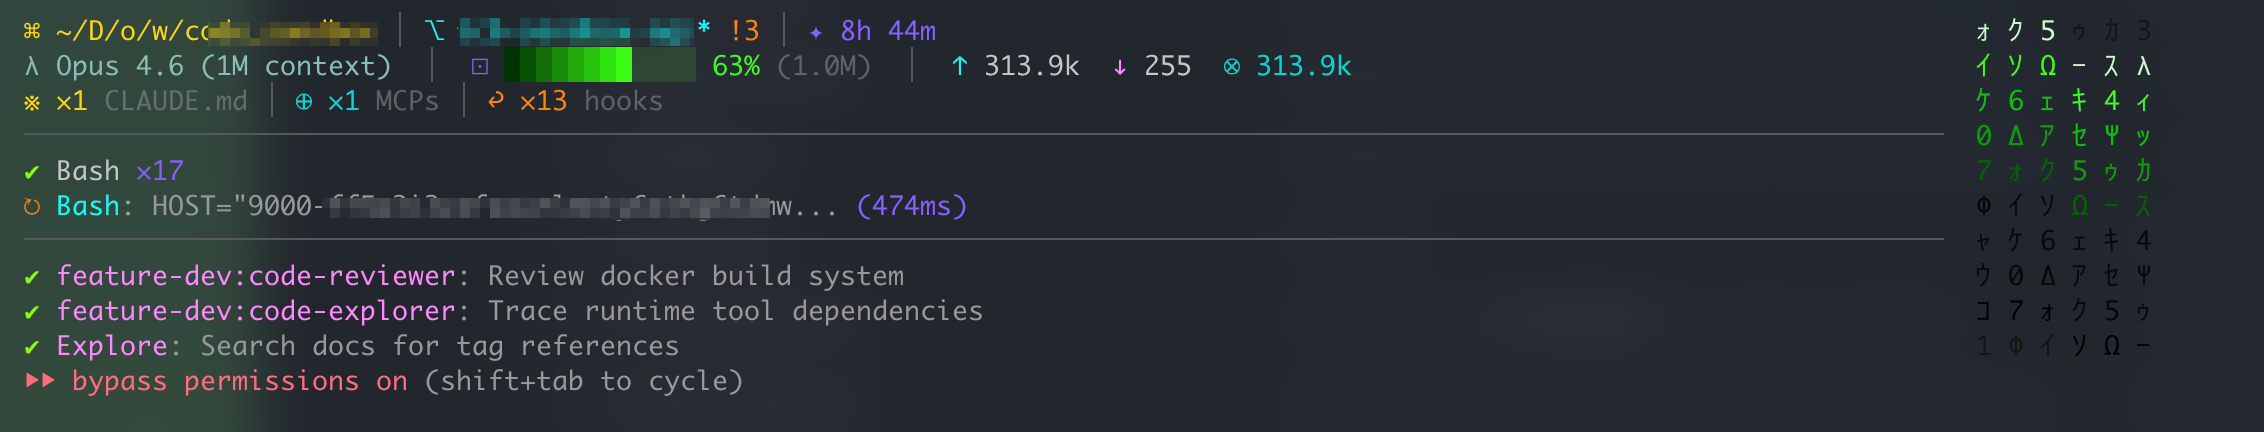
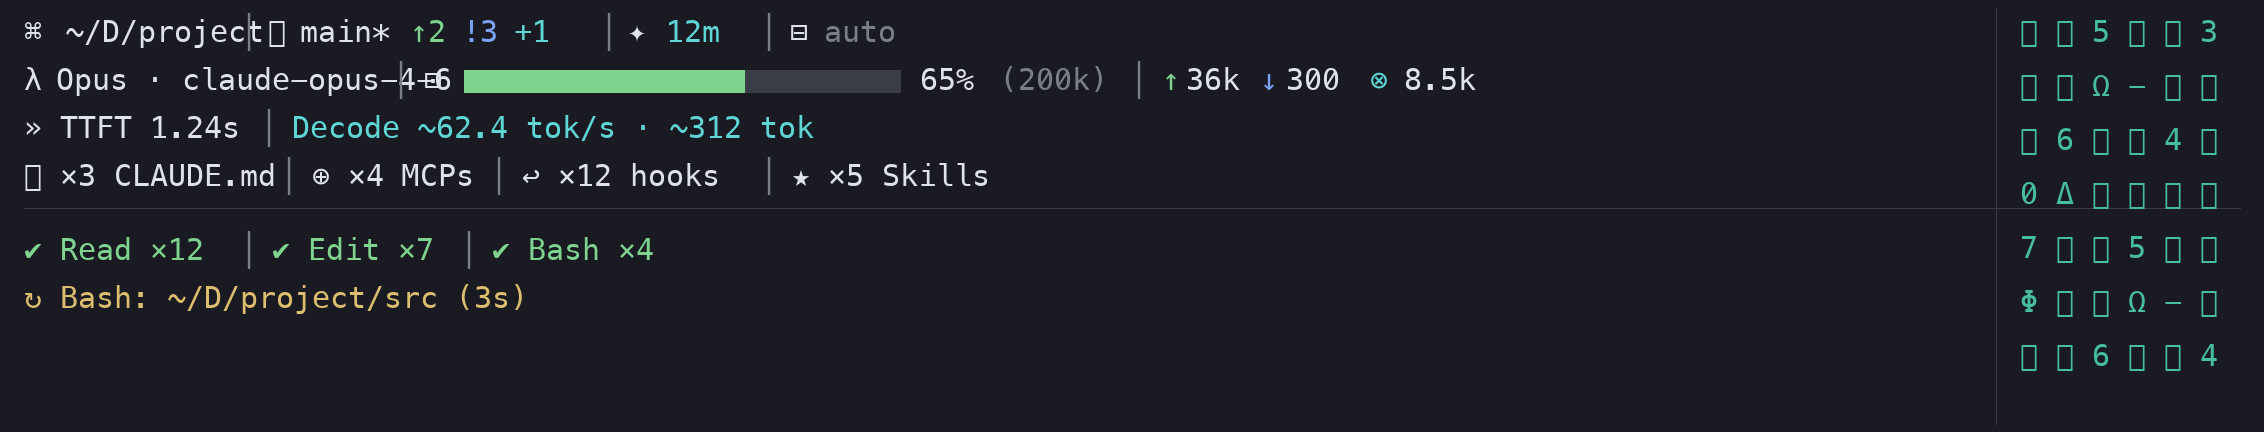
docs: bilingual README, synthetic HUD shot, drop private sync scripts and path fixtures

diff --git a/plugins/cc-shannon-mod/tests/cc-shannon-mod.test.ts b/plugins/cc-shannon-mod/tests/cc-shannon-mod.test.ts
@@ -709,7 +709,7 @@ test("a turn refreshes the git row", async ($, on) => {
 
 test("the project row shortens the path the way the statusline does", async ($, on) => {
   const saved = new Map<string, unknown>();
-  stubBase(on, saved, { cwd: () => "/home/test/Documents/workbuddy/cc-plugins" });
+  stubBase(on, saved, { cwd: () => "/home/test/Documents/projects/cc-plugins" });
   mock.clock(on);
 
   await $.session.start({ surface: "terminal", isInteractive: true, cwd: "/work" });
@@ -717,7 +717,7 @@ test("the project row shortens the path the way the statusline does", async ($, 
 
   const project = JSON.stringify(await ui.find({ key: "row-project" }));
   // `~` for home, then one initial per leading segment; the tail segment stays.
-  expect(project).toContain("~/D/w/cc-plugins");
+  expect(project).toContain("~/D/p/cc-plugins");
   expect(project).not.toContain("/home/test/Documents");
   await ui.unmount();
 });

diff --git a/plugins/cc-shannon-mod/hooks/path.js b/plugins/cc-shannon-mod/hooks/path.js
@@ -1,7 +1,7 @@
 /**
  * Display-path shortening, shared in spirit with cc-shannon-statusline.
  *
- * The statusline writes `~/D/workbuddy/cc-plugins` from a full path: every
+ * The statusline writes `~/D/projects/cc-plugins` from a full path: every
  * leading segment collapses to its first character, and a `-` or `.` keeps the
  * character after it (`RetiredPhysicist` -> `R`, `cc-plugins` -> `c-p`). The mod
  * shows the same string so the two HUDs read alike.

diff --git a/README.md b/README.md
@@ -1,14 +1,36 @@
 # cc-plugins
 
-RetiredPhysicist plugins for [Claude Code](https://claude.ai/code), distributed as
-a plugin marketplace.
+[Claude Code](https://claude.ai/code) plugins from [RetiredPhysicist](https://github.com/RetiredPhysicist), installed from one marketplace.
 
-| plugin | what it does |
-| --- | --- |
-| [`cc-shannon-statusline`](./plugins/cc-shannon-statusline) | A live HUD under the prompt: project, model, context, throughput, tools, agents, and config counts |
-| [`cc-shannon-mod`](./plugins/cc-shannon-mod) | Mission control: measured turn timing, live activity, slowest-tool latency, a context runway, a prompt queue, a risky-command guard, a usage ledger, and a companion fed by green builds |
-| [`cc-shannon-bloom`](./plugins/cc-shannon-bloom) | A Gource-style film of the session: projects as constellations, subagents branching, tool calls flying as sparks |
-| [`cc-atuin`](./plugins/cc-atuin) | Atuin history for Claude Code: prompts and bash commands land in your shell's database, and `/history` searches it |
+[![CI](https://github.com/RetiredPhysicist/cc-plugins/actions/workflows/ci.yml/badge.svg)](https://github.com/RetiredPhysicist/cc-plugins/actions/workflows/ci.yml)
+[![license](https://img.shields.io/badge/license-MIT-blue)](#license)
+
+[中文](./README.zh.md)
+
+Four plugins. Two are mods that run inside the session. One is a status-line command Claude Code calls as a subprocess. One writes prompts and Bash into the local [Atuin](https://atuin.sh) database.
+
+| Plugin | Kind | What you see |
+| --- | --- | --- |
+| [`cc-shannon-statusline`](./plugins/cc-shannon-statusline) | `statusLine` command | A HUD under the prompt: project, git, model, context, transcript timing, tools, agents, config counts |
+| [`cc-shannon-mod`](./plugins/cc-shannon-mod) | mod | The same HUD, plus measured turn timing, a risky-command guard, a usage ledger, a prompt queue, and a context runway |
+| [`cc-shannon-bloom`](./plugins/cc-shannon-bloom) | mod | A live map of the session: projects as hubs, subagents as branches, tool calls as sparks |
+| [`cc-atuin`](./plugins/cc-atuin) | mod | Prompts and Bash commands written into Atuin, searched with `/history` |
+
+`cc-shannon-statusline` and `cc-shannon-mod` overlap on purpose and do not conflict. The statusline receives a JSON snapshot and rebuilds activity from the transcript, so its speed numbers are estimates. The mod sees the response stream, so its timing is measured, and it can draw UI and stop a command before it runs. Install either or both.
+
+```mermaid
+flowchart LR
+  add["marketplace add"] --> pick["plugin install"]
+  pick --> sl["statusline"]
+  pick --> mod["mod"]
+  pick --> bloom["bloom"]
+  pick --> atuin["atuin"]
+  sl --> hook["SessionStart copies dist"]
+  hook --> hud["statusLine command"]
+  mod --> band["band above the prompt"]
+  bloom --> pane["docked map"]
+  atuin --> db["local Atuin DB"]
+```
 
 ## Install
 
@@ -20,14 +42,37 @@ claude plugin install cc-shannon-bloom@cc-plugins
 claude plugin install cc-atuin@cc-plugins
 ```
 
-`cc-shannon-statusline` and `cc-shannon-mod` overlap on purpose but see different
-things. The statusline is an external command that receives a JSON snapshot and
-reconstructs activity from the transcript, so its speed numbers are labelled
-estimates. The mod runs inside Claude Code, so its timing is measured from the
-response stream, and it can draw interactive UI and act on what it sees. Install
-either or both; they do not conflict.
+Or add the marketplace once and install from `/plugin` inside a session.
 
-Or add the marketplace once and install from `/plugin` in a session.
+Restart Claude Code, or run `/reload-plugins`. The statusline appears on the next session start: its `SessionStart` hook copies the committed build to `~/.shannon/cc-shannon-statusline/` and points `statusLine` in `~/.claude/settings.json` at `~/.shannon/cc-shannon-statusline/run.sh`. A `statusLine` you already set to something else is left alone.
+
+Per-plugin requirements, commands, and config are in each plugin README.
+
+## Commands
+
+| Plugin | Command | Does |
+| --- | --- | --- |
+| cc-shannon-mod | `/shannon` | Open the detail pane |
+| cc-shannon-mod | `/shannon-guard` | Turn the risky-command guard on or off |
+| cc-shannon-mod | `/shannon-rain` | Turn the matrix rain on or off |
+| cc-shannon-mod | `/shannon-toggle <name>` | Toggle `companion`, `lens`, `queue`, `latency`, or `notify` |
+| cc-shannon-mod | `/q <text>` | Queue a prompt for the end of the current turn |
+| cc-shannon-mod | `/shannon-queue` | List, reorder, or drop queued prompts |
+| cc-shannon-bloom | `/bloom` | Open the map |
+| cc-shannon-bloom | `/bloom-toggle` | Open the map; reports when it is already open |
+| cc-atuin | `/history` | Search Atuin and fill the prompt |
+| cc-shannon-statusline | `/cc-shannon-statusline:setup` | Re-run the statusline install |
+
+## Requirements
+
+| Plugin | Needs |
+| --- | --- |
+| cc-shannon-statusline | Node.js 22 or later on `PATH`. The install hook resolves `node` and writes that path into `run.sh`. |
+| cc-shannon-mod | Claude Code 2.1.287 or later. Native guard notifications need 2.1.295, and stay off unless `notify` is set. |
+| cc-shannon-bloom | Claude Code 2.1.287 or later, and a terminal surface that can place a pane. |
+| cc-atuin | Claude Code 2.1.287 or later, and `atuin` on `PATH`. |
+
+None of the four plugins makes a network request of its own. cc-shannon-statusline writes session data to a local Unix socket when a consumer is listening. Atuin may reach the network, if you configured sync on that binary.
 
 ## Update
 
@@ -38,23 +83,42 @@ claude plugin update cc-shannon-bloom@cc-plugins
 claude plugin update cc-atuin@cc-plugins
 ```
 
-Then restart Claude Code, or run `/reload-plugins`. Plugins here carry no
-`version` field on purpose: the version is the source commit SHA, so a push to
-`main` is the release.
+Then restart Claude Code, or run `/reload-plugins`. Plugins here omit `version` on purpose. The installed version is the source commit SHA, so a push to `main` is the release.
 
-## How plugins are laid out
+## Layout
 
-Each plugin lives in `plugins/<name>/` with a `.claude-plugin/plugin.json`. Claude
-Code reads the repository as-is and runs no install script, so a plugin that ships
-built code commits that build and CI fails when the build is stale.
+Each plugin is `plugins/<name>/` with a `.claude-plugin/plugin.json`. The repository root has no shared runtime. Claude Code reads the tree as-is and runs no build on install, so `cc-shannon-statusline` commits `dist/`. CI rebuilds that directory and fails when it differs from `src/`.
 
-## Adding a plugin
+```text
+.claude-plugin/marketplace.json
+plugins/cc-shannon-statusline/   statusLine command, TypeScript, committed dist/
+plugins/cc-shannon-mod/          mod, hooks/*.js
+plugins/cc-shannon-bloom/        mod, hooks/*.js
+plugins/cc-atuin/                mod, hooks/*.js
+```
 
-1. Create `plugins/<name>/` with `.claude-plugin/plugin.json`.
-2. Add it to `plugins` in [`.claude-plugin/marketplace.json`](./.claude-plugin/marketplace.json).
-3. Keep it self-contained. The repository root has no shared runtime code.
-4. Commit any built output the plugin needs at install time.
+To add a plugin: create `plugins/<name>/.claude-plugin/plugin.json`, add an entry under `plugins` in [`.claude-plugin/marketplace.json`](./.claude-plugin/marketplace.json), keep it self-contained, and commit any build the install needs.
+
+## Development
+
+```bash
+git clone https://github.com/RetiredPhysicist/cc-plugins.git
+cd cc-plugins
+```
+
+| Plugin | Check |
+| --- | --- |
+| cc-shannon-statusline | `bun install && bun test && bun run build` in `plugins/cc-shannon-statusline` |
+| cc-shannon-mod | `node --test test/*.test.mjs` and `claude plugin test .` |
+| cc-shannon-bloom | `node --test test/*.test.mjs` and `claude plugin test .` |
+| cc-atuin | `node --test test/*.test.mjs` and `claude plugin test .` |
+
+CI on `main` and on pull requests runs those checks, then `claude plugin validate` on the marketplace and each plugin. Validation is not `--strict`: the missing `version` field is intentional.
 
 ## License
 
-MIT
+MIT. Each plugin has its own `LICENSE`.
+
+`cc-shannon-bloom` adapts the world simulation, camera, and palette from [opencode-bloom](https://github.com/kitlangton/opencode-bloom) (MIT, Kit Langton). The notice is in [`plugins/cc-shannon-bloom/LICENSE`](./plugins/cc-shannon-bloom/LICENSE).
+
+`cc-shannon-statusline` keeps the copyright line from its earlier tree: Copyright (c) 2024 RealAlexandreAI, in [`plugins/cc-shannon-statusline/LICENSE`](./plugins/cc-shannon-statusline/LICENSE). The other three say Copyright (c) 2026 RetiredPhysicist.

diff --git a/README.zh.md b/README.zh.md
@@ -1,0 +1,124 @@
+# cc-plugins
+
+[RetiredPhysicist](https://github.com/RetiredPhysicist) 的 [Claude Code](https://claude.ai/code) 插件，从一个 marketplace 安装。
+
+[![CI](https://github.com/RetiredPhysicist/cc-plugins/actions/workflows/ci.yml/badge.svg)](https://github.com/RetiredPhysicist/cc-plugins/actions/workflows/ci.yml)
+[![license](https://img.shields.io/badge/license-MIT-blue)](#许可证)
+
+[English](./README.md)
+
+四个插件。两个是跑在会话里的 mod。一个是 Claude Code 以子进程调用的 status line 命令。一个把提示词和 Bash 写进本机的 [Atuin](https://atuin.sh) 数据库。
+
+| 插件 | 类型 | 你看到的 |
+| --- | --- | --- |
+| [`cc-shannon-statusline`](./plugins/cc-shannon-statusline) | `statusLine` 命令 | 提示符下方的 HUD：项目、git、模型、上下文、转录计时、工具、子代理、配置计数 |
+| [`cc-shannon-mod`](./plugins/cc-shannon-mod) | mod | 同一套 HUD，加上实测回合计时、危险命令拦截、用量账本、提示词队列、上下文余量 |
+| [`cc-shannon-bloom`](./plugins/cc-shannon-bloom) | mod | 会话的实时地图：项目是枢纽，子代理是分支，工具调用是火花 |
+| [`cc-atuin`](./plugins/cc-atuin) | mod | 提示词和 Bash 写入 Atuin，用 `/history` 搜索 |
+
+`cc-shannon-statusline` 和 `cc-shannon-mod` 故意重叠，互不冲突。statusline 收到一份 JSON 快照，再从转录重建活动，所以速度数字是估计。mod 看得到响应流，所以计时是实测，也能画界面、在命令执行前拦住它。装一个或两个都可以。
+
+```mermaid
+flowchart LR
+  add["marketplace add"] --> pick["plugin install"]
+  pick --> sl["statusline"]
+  pick --> mod["mod"]
+  pick --> bloom["bloom"]
+  pick --> atuin["atuin"]
+  sl --> hook["SessionStart 复制 dist"]
+  hook --> hud["statusLine 命令"]
+  mod --> band["提示符上方的条带"]
+  bloom --> pane["停靠的地图"]
+  atuin --> db["本机 Atuin 数据库"]
+```
+
+## 安装
+
+```bash
+claude plugin marketplace add RetiredPhysicist/cc-plugins
+claude plugin install cc-shannon-statusline@cc-plugins
+claude plugin install cc-shannon-mod@cc-plugins
+claude plugin install cc-shannon-bloom@cc-plugins
+claude plugin install cc-atuin@cc-plugins
+```
+
+也可以先加 marketplace，再在会话里用 `/plugin` 安装。
+
+重启 Claude Code，或运行 `/reload-plugins`。statusline 在下一次会话开始时出现：它的 `SessionStart` 钩子把已提交的构建复制到 `~/.shannon/cc-shannon-statusline/`，并把 `~/.claude/settings.json` 里的 `statusLine` 指到 `~/.shannon/cc-shannon-statusline/run.sh`。你已经设成别的东西的 `statusLine` 不会被改。
+
+各插件的要求、命令和配置写在各自的 README 里。
+
+## 命令
+
+| 插件 | 命令 | 作用 |
+| --- | --- | --- |
+| cc-shannon-mod | `/shannon` | 打开详情面板 |
+| cc-shannon-mod | `/shannon-guard` | 开关危险命令拦截 |
+| cc-shannon-mod | `/shannon-rain` | 开关矩阵雨 |
+| cc-shannon-mod | `/shannon-toggle <name>` | 切换 `companion`、`lens`、`queue`、`latency` 或 `notify` |
+| cc-shannon-mod | `/q <text>` | 把一条提示词排到当前回合结束 |
+| cc-shannon-mod | `/shannon-queue` | 列出、重排或丢掉排队的提示词 |
+| cc-shannon-bloom | `/bloom` | 打开地图 |
+| cc-shannon-bloom | `/bloom-toggle` | 打开地图；已打开时如实回报 |
+| cc-atuin | `/history` | 搜索 Atuin，并把选中的命令填进提示词 |
+| cc-shannon-statusline | `/cc-shannon-statusline:setup` | 重新跑一遍 statusline 安装 |
+
+## 要求
+
+| 插件 | 需要 |
+| --- | --- |
+| cc-shannon-statusline | `PATH` 上有 Node.js 22 或更新。安装钩子会解析 `node`，并把那个路径写进 `run.sh`。 |
+| cc-shannon-mod | Claude Code 2.1.287 或更新。原生拦截通知需要 2.1.295，并且只有设置了 `notify` 才会发出。 |
+| cc-shannon-bloom | Claude Code 2.1.287 或更新，以及能放置 pane 的终端界面。 |
+| cc-atuin | Claude Code 2.1.287 或更新，并且 `PATH` 上有 `atuin`。 |
+
+四个插件自己都不发网络请求。有消费者在监听时，cc-shannon-statusline 会把会话数据写进本地 Unix socket。如果你给 Atuin 配了同步，那个二进制自己可能会联网。
+
+## 更新
+
+```bash
+claude plugin update cc-shannon-statusline@cc-plugins
+claude plugin update cc-shannon-mod@cc-plugins
+claude plugin update cc-shannon-bloom@cc-plugins
+claude plugin update cc-atuin@cc-plugins
+```
+
+然后重启 Claude Code，或运行 `/reload-plugins`。这里的插件故意不写 `version`。装上的版本就是源码提交的 SHA，所以推到 `main` 就是一次发布。
+
+## 布局
+
+每个插件是 `plugins/<name>/`，带一份 `.claude-plugin/plugin.json`。仓库根没有共享运行时。Claude Code 按仓库原样读取，安装时不构建，所以 `cc-shannon-statusline` 把 `dist/` 提交进仓库。CI 会重新构建这个目录，和 `src/` 不一致就失败。
+
+```text
+.claude-plugin/marketplace.json
+plugins/cc-shannon-statusline/   statusLine 命令，TypeScript，提交 dist/
+plugins/cc-shannon-mod/          mod，hooks/*.js
+plugins/cc-shannon-bloom/        mod，hooks/*.js
+plugins/cc-atuin/                mod，hooks/*.js
+```
+
+要加一个插件：建 `plugins/<name>/.claude-plugin/plugin.json`，在 [`.claude-plugin/marketplace.json`](./.claude-plugin/marketplace.json) 的 `plugins` 里加一条，保持自包含，并把安装需要的构建产物一起提交。
+
+## 开发
+
+```bash
+git clone https://github.com/RetiredPhysicist/cc-plugins.git
+cd cc-plugins
+```
+
+| 插件 | 检查 |
+| --- | --- |
+| cc-shannon-statusline | 在 `plugins/cc-shannon-statusline` 里跑 `bun install && bun test && bun run build` |
+| cc-shannon-mod | `node --test test/*.test.mjs`，以及 `claude plugin test .` |
+| cc-shannon-bloom | `node --test test/*.test.mjs`，以及 `claude plugin test .` |
+| cc-atuin | `node --test test/*.test.mjs`，以及 `claude plugin test .` |
+
+`main` 和 pull request 上的 CI 跑这些检查，再对 marketplace 和每个插件跑 `claude plugin validate`。校验不用 `--strict`：缺 `version` 字段是故意的。
+
+## 许可证
+
+MIT。每个插件有自己的 `LICENSE`。
+
+`cc-shannon-bloom` 的世界模拟、镜头和调色改编自 [opencode-bloom](https://github.com/kitlangton/opencode-bloom)（MIT，Kit Langton）。声明在 [`plugins/cc-shannon-bloom/LICENSE`](./plugins/cc-shannon-bloom/LICENSE)。
+
+`cc-shannon-statusline` 保留更早那棵树的版权行：Copyright (c) 2024 RealAlexandreAI，见 [`plugins/cc-shannon-statusline/LICENSE`](./plugins/cc-shannon-statusline/LICENSE)。另外三个是 Copyright (c) 2026 RetiredPhysicist。

diff --git a/plugins/cc-shannon-statusline/skills/statusline/SKILL.md b/plugins/cc-shannon-statusline/skills/statusline/SKILL.md
@@ -16,7 +16,7 @@ Public repo: [`RetiredPhysicist/cc-plugins`](https://github.com/RetiredPhysicist
 ## Boundaries
 
 - This repo is **independent** from the Shannon GUI repo. Do **not** add any Shannon source/build refs here. Do **not** push or pull from any Shannon-related git remote.
-- Single remote: `origin → git@github.com:RetiredPhysicist/cc-plugins.git`. Verify with `git remote -v` before any push.
+- Single remote: `origin → github.com/RetiredPhysicist/cc-plugins`. Verify with `git remote -v` before any push.
 - Repo is **public**. Anything committed here is world-visible. No internal docs, no plans, no Shannon roadmap.
 
 ## Code map
@@ -45,7 +45,6 @@ src/
 | `bun run dev` | `tsc --watch` |
 | `bun run test:stdin` | end-to-end smoke with sample payload |
 | `bunx tsc --noEmit` | typecheck only |
-| `bun run sync:shannon` | build + copy `dist/` → `$SHANNON_DIR/src-tauri/resources/statusline-plugin/dist/` (defaults to `~/Desktop/Shannon`) |
 
 ## Conventions
 

diff --git a/plugins/cc-shannon-bloom/README.md b/plugins/cc-shannon-bloom/README.md
@@ -40,9 +40,9 @@ moves whether or not any event fired.
 │                        ●            ●                        │
 │              ◉ cc-plugins  ··◦•                              │
 │                    •            ·                           │
-│                          ◉ Kuiper                            │
+│                          ◉ atlas                             │
 │      ··◈··                    ●                              │
-│       ◉ Shannon                                              │
+│       ◉ beacon                                               │
 └──────────────────────────────────────────────────────────────┘
 ▁▁▂▃▅▇▅▃▂▁▁
 ```
